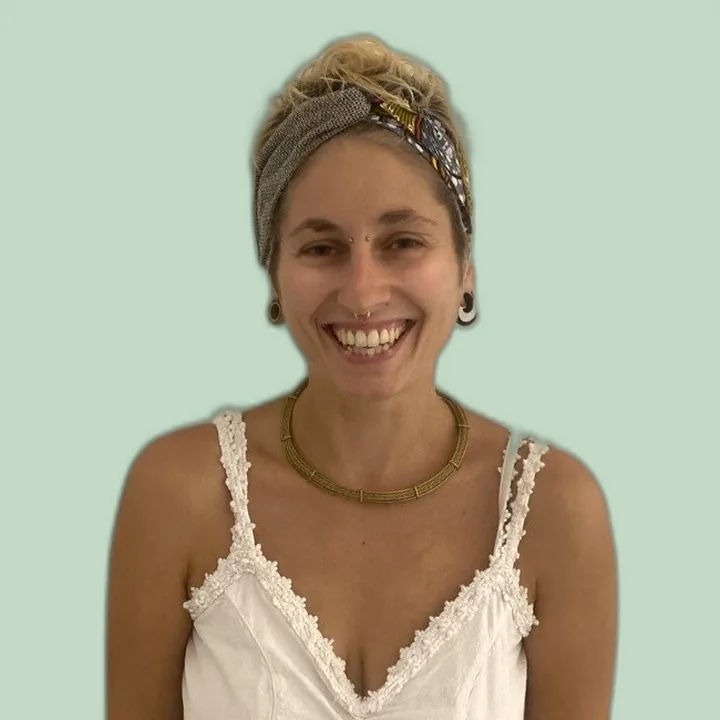
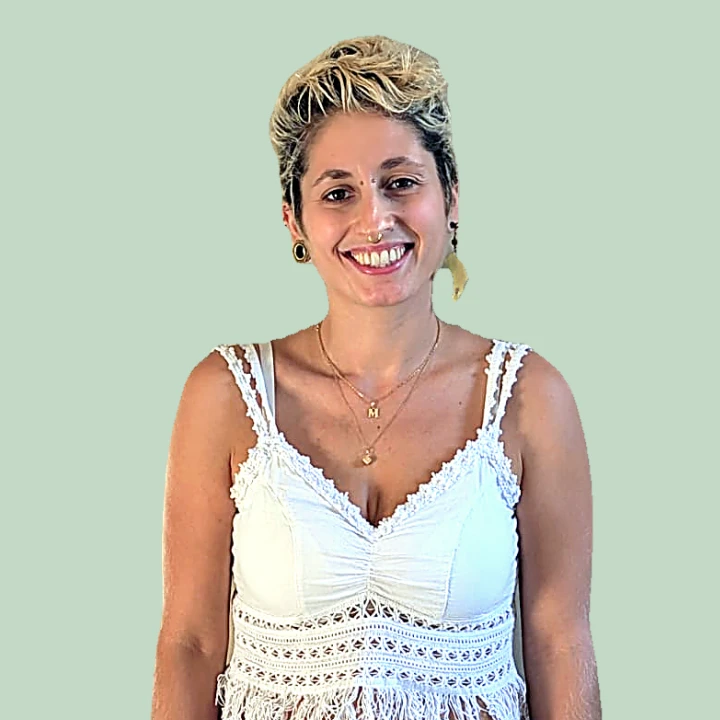
Aggiunge foto Maria Grazia Vincitorio (organigramma e Pianoforte)
Claude-Session: https://claude.ai/code/session_01G295Z6zKX8abFEDAhoiRzS

diff --git a/src/content/corsi/pianoforte-e-tastiere.md b/src/content/corsi/pianoforte-e-tastiere.md
@@ -31,4 +31,5 @@ team:
     foto: "/assets/docenti/docente-pianoforte-karolina-kisiak.webp"
   - nome: "Mariagrazia Vincitorio"
     ruolo: "Pianoforte e tastiere classico e moderno: classica, pop, rock, blues"
+    foto: "/assets/docenti/docente-pianoforte-mariagrazia-vincitorio.webp"
 ---
